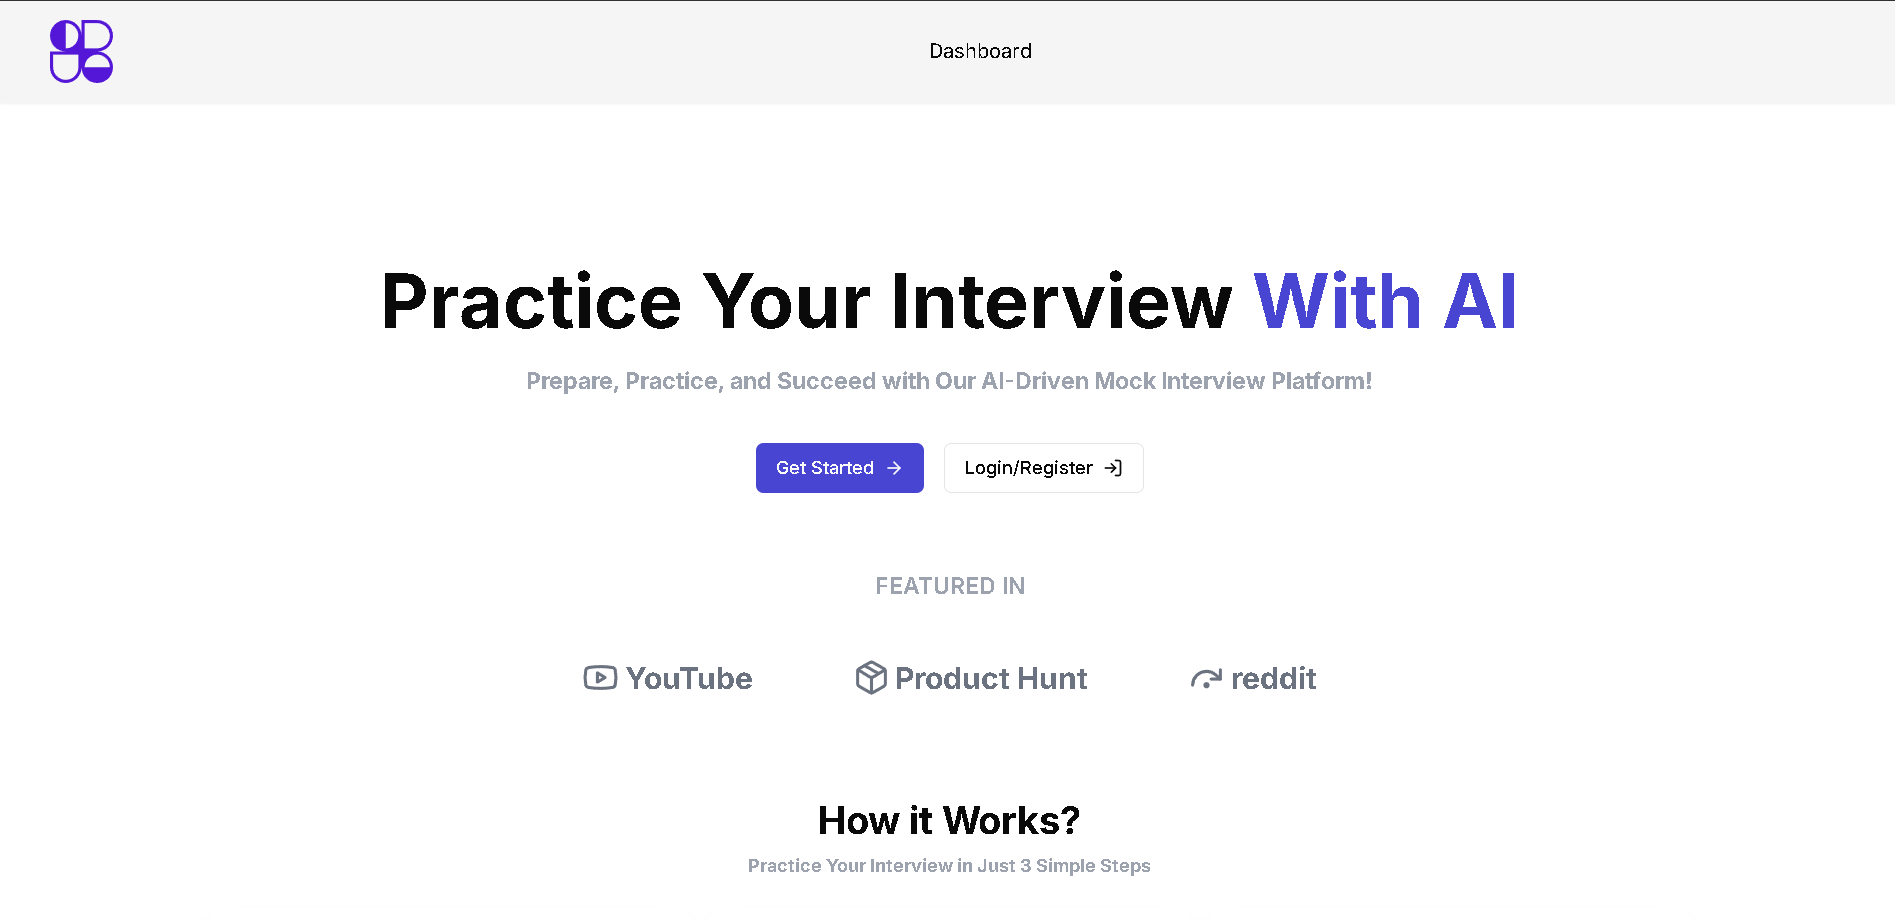
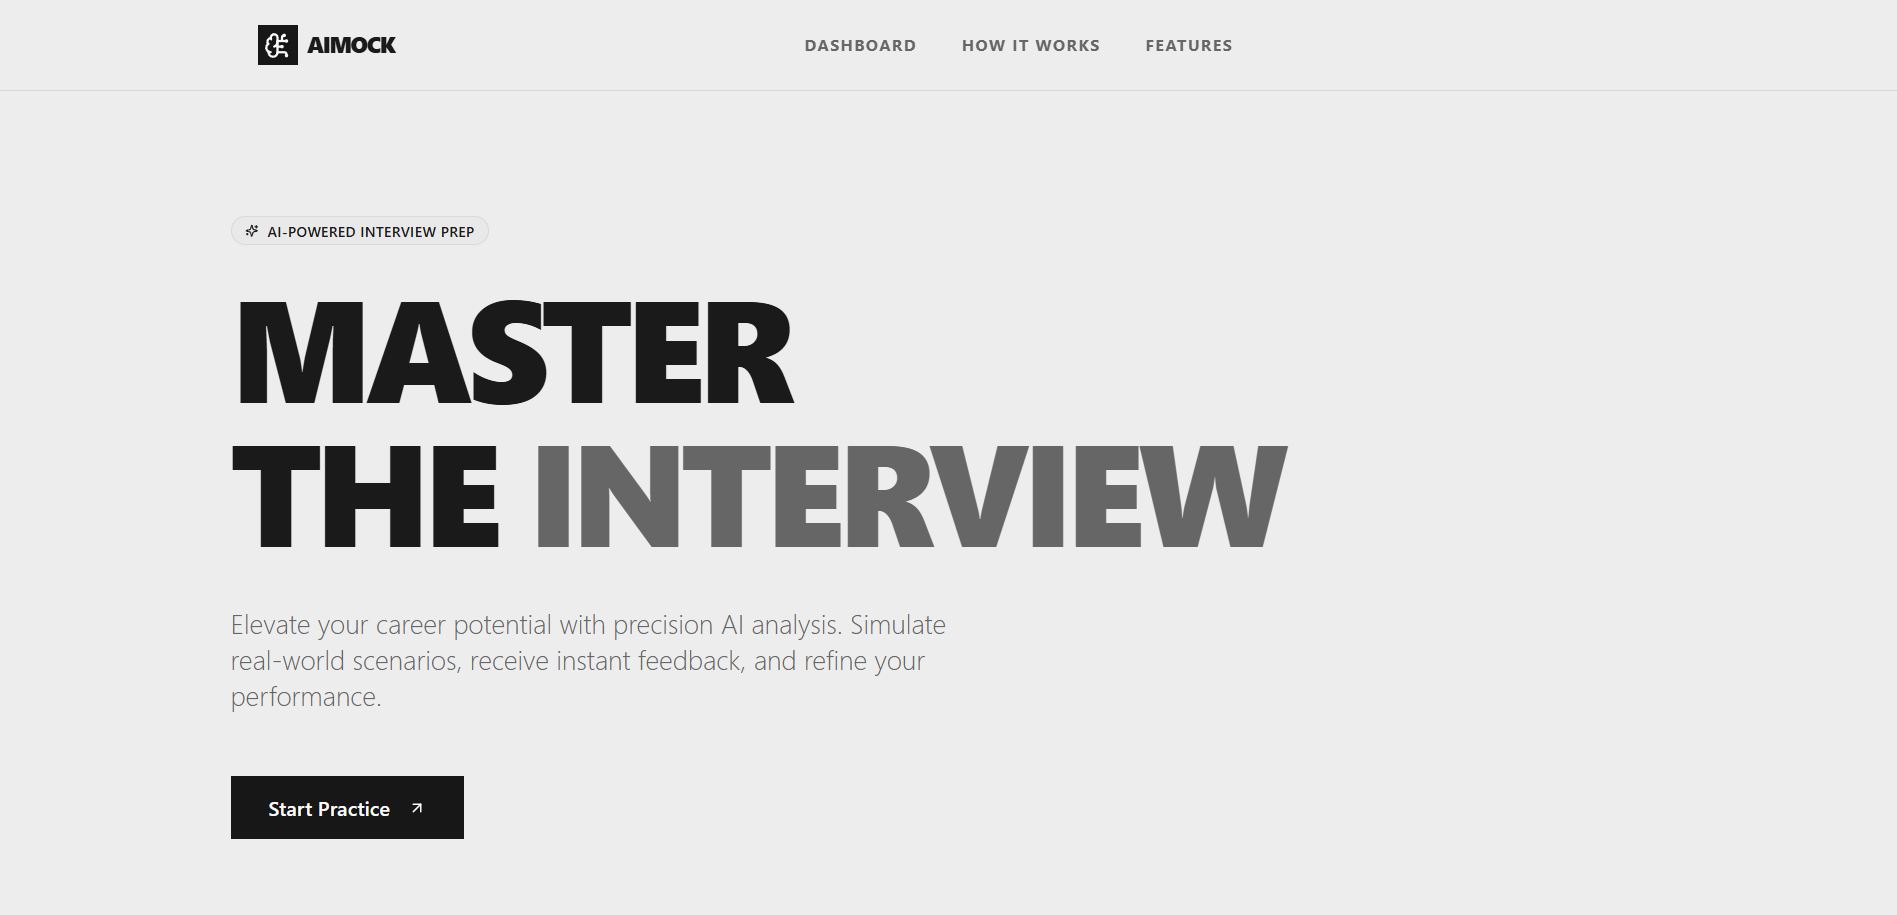
SKILLS SECTION UI IMPROVED\ PROJECT SECTION TWO LINKS SUPPORT ADDED

diff --git a/src/sections/Skills.jsx b/src/sections/Skills.jsx
@@ -5,11 +5,13 @@ import { skillCategories } from "../constants";
 import { useGSAP } from "@gsap/react";
 import gsap from "gsap";
 import { ScrollTrigger } from "gsap/all";
+import { useMediaQuery } from "react-responsive";
 
 gsap.registerPlugin(ScrollTrigger);
 
 const Skills = () => {
   const cardRefs = useRef([]);
+  const isDesktop = useMediaQuery({ minWidth: "48rem" }); // 768px
   const text = `Pragmatic stack spanning languages, frameworks,
     tooling, and data layers ready for prototypes
     or hardened production systems.`;
@@ -19,20 +21,19 @@ const Skills = () => {
       if (!card) return;
 
       gsap.from(card, {
-        y: 120,
-        opacity: 0,
-        duration: 1,
-        ease: "power3.out",
+        y: 200,
         scrollTrigger: {
           trigger: card,
-          start: "top 85%",
+          start: "top 80%",
         },
+        duration: 1,
+        ease: "circ.out",
       });
     });
   }, []);
 
   return (
-    <section id="skills" className="min-h-screen bg-black border-t-2 border-white/20">
+    <section id="skills" className="min-h-screen bg-black rounded-t-4xl">
       <AnimatedHeaderSection
         subTitle={"Stacks I Ship With"}
         title={"Skills"}
@@ -40,46 +41,47 @@ const Skills = () => {
         textColor={"text-white"}
         withScrollTrigger={true}
       />
-      <div className="px-10 pb-20">
-        <div className="grid gap-8 md:grid-cols-2">
-          {skillCategories.map((category, index) => (
-            <article
-              key={category.title}
-              ref={(el) => {
-                cardRefs.current[index] = el;
-              }}
-              className="relative flex flex-col gap-6 p-8 overflow-hidden border border-white/10 rounded-3xl bg-white/5 backdrop-blur-sm"
-            >
-              <header className="space-y-2">
-                <p className="text-xs tracking-[0.4rem] uppercase text-white/40">
-                  {category.subtitle}
-                </p>
-                <h3 className="text-3xl font-light md:text-4xl text-white">
-                  {category.title}
-                </h3>
-              </header>
-              <div className="grid gap-3 sm:grid-cols-2">
-                {category.skills.map((skill) => (
-                  <div
-                    key={skill.name}
-                    className="flex items-center gap-4 p-4 transition-colors duration-300 rounded-2xl bg-white/5 hover:bg-white/10"
-                  >
-                    <div className="flex items-center justify-center w-12 h-12 rounded-xl bg-black/40 border border-white/10">
-                      <Icon
-                        icon={skill.icon}
-                        className={`w-7 h-7 ${skill.iconClassName ?? "text-gold"}`}
-                      />
-                    </div>
-                    <span className="text-lg font-light tracking-wide text-white">
-                      {skill.name}
-                    </span>
-                  </div>
-                ))}
+      
+      {skillCategories.map((category, index) => (
+        <div
+          ref={(el) => (cardRefs.current[index] = el)}
+          key={index}
+          className="sticky px-10 pt-6 pb-12 text-white bg-black border-t-2 border-white/30"
+          style={
+            isDesktop
+              ? {
+                  top: `calc(10vh + ${index * 5}em)`,
+                  marginBottom: `${(skillCategories.length - index - 1) * 5}rem`,
+                }
+              : { top: 0 }
+          }
+        >
+           <div className="flex flex-col gap-8 md:flex-row md:justify-between md:items-start">
+              <div className="md:w-1/3">
+                 <h2 className="text-4xl lg:text-5xl mb-4">{category.title}</h2>
+                 <p className="text-xl leading-relaxed tracking-widest lg:text-2xl text-white/60 text-pretty">
+                    {category.subtitle}
+                 </p>
               </div>
-            </article>
-          ))}
+              
+              <div className="md:w-2/3 grid grid-cols-2 sm:grid-cols-3 gap-4">
+                 {category.skills.map((skill) => (
+                    <div key={skill.name} className="flex items-center gap-3 p-3 rounded-xl bg-white/5 border border-white/10 hover:bg-white/10 transition-colors duration-300">
+                       <div className="flex items-center justify-center w-10 h-10 rounded-lg bg-black/40 border border-white/10 shrink-0">
+                          <Icon
+                            icon={skill.icon}
+                            className={`w-6 h-6 ${skill.iconClassName ?? "text-gold"}`}
+                          />
+                       </div>
+                       <span className="text-base font-light tracking-wide text-white/90">
+                          {skill.name}
+                       </span>
+                    </div>
+                 ))}
+              </div>
+           </div>
         </div>
-      </div>
+      ))}
     </section>
   );
 };

diff --git a/src/constants/index.js b/src/constants/index.js
@@ -113,7 +113,8 @@ export const projects = [
     name: "Skill Arena",
     description:
       "An online Esport Tournament Management System with team registrations, match scheduling, and real-time score updates.",
-    href: "https://github.com/rohit-jsfreaky/skill-arena-frontend",
+    liveLink: "https://eskillarena.in/",
+    githubLink: null,
     image: "/assets/projects/skill-arena.png",
     bgImage: "/assets/backgrounds/blanket.jpg",
     frameworks: [
@@ -131,7 +132,8 @@ export const projects = [
     name: "Csv Editor",
     description:
       "This project is a robust CSV management platform that combines dynamic table editing, cloud storage with AWS S3, and secure authentication to deliver a seamless and user-friendly experience for managing and editing CSV files.",
-    href: "https://github.com/rohit-jsfreaky/Csv-Editor",
+    liveLink: "https://csv-editor-steel.vercel.app/",
+    githubLink: "https://github.com/rohit-jsfreaky/Csv-Editor",
     image: "/assets/projects/cvs-editor.png",
     bgImage: "/assets/backgrounds/curtains.jpg",
     frameworks: [
@@ -148,7 +150,8 @@ export const projects = [
     name: "Ai Mock Interview",
     description:
       "Built an AI-powered mock interview platform with Next.js, Drizzle ORM, and NeonDB, enhancing user preparation by 80%. Integrated Gemini API for tailored questions and Clerk for secure authentication, ensuring efficiency and scalability.",
-    href: "https://github.com/rohit-jsfreaky/Ai-mock-interview",
+    liveLink: "https://ai-mock-interview-iota-blush.vercel.app/",
+    githubLink: "https://github.com/rohit-jsfreaky/Ai-mock-interview",
     image: "/assets/projects/ai-interview.png",
     bgImage: "/assets/backgrounds/map.jpg",
     frameworks: [
@@ -163,7 +166,8 @@ export const projects = [
     name: "Ai Resume Builder",
     description:
       "I've developed an AI-powered resume builder using React, Node.js, and MongoDB, featuring AI-driven suggestions via Gemini API and secure authentication with Clerk",
-    href: "https://github.com/rohit-jsfreaky/resume-builder-ai",
+    liveLink: null,
+    githubLink: "https://github.com/rohit-jsfreaky/resume-builder-ai",
     image: "/assets/projects/resume.png",
     bgImage: "/assets/backgrounds/poster.jpg",
     frameworks: [
@@ -179,7 +183,8 @@ export const projects = [
     name: "Job Portal",
     description:
       "Developed a job portal using React, Node.js, and MongoDB. Features include secure authentication, job postings, and application management, bridging the gap between students andemployers.",
-    href: "https://github.com/rohit-jsfreaky/job-portal",
+    liveLink: null,
+    githubLink: "https://github.com/rohit-jsfreaky/job-portal",
     image: "/assets/projects/job-portal.jpg",
     bgImage: "/assets/backgrounds/table.jpg",
     frameworks: [

diff --git a/src/sections/Works.jsx b/src/sections/Works.jsx
@@ -119,7 +119,13 @@ const Works = () => {
             className="relative flex flex-col gap-1 py-5 cursor-pointer group md:gap-0"
             onMouseEnter={() => handleMouseEnter(index)}
             onMouseLeave={() => handleMouseLeave(index)}
-            onClick={() => window.open(project.href, "_blank")}
+            onClick={() => {
+              if (project.liveLink) {
+                window.open(project.liveLink, "_blank");
+              } else if (project.githubLink) {
+                window.open(project.githubLink, "_blank");
+              }
+            }}
           >
             {/* overlay */}
             <div
@@ -130,11 +136,37 @@ const Works = () => {
             />
 
             {/* title */}
-            <div className="flex justify-between px-10 text-black transition-all duration-500 md:group-hover:px-12 md:group-hover:text-white">
+            <div className="flex justify-between items-center px-10 text-black transition-all duration-500 md:group-hover:px-12 md:group-hover:text-white">
               <h2 className="lg:text-[32px] text-[26px] leading-none">
                 {project.name}
               </h2>
-              <Icon icon="lucide:arrow-up-right" className="md:size-6 size-5" />
+              <div className="flex gap-4 z-10">
+                {project.githubLink && (
+                  <a
+                    href={project.githubLink}
+                    target="_blank"
+                    rel="noreferrer"
+                    className="hover:scale-110 transition-transform"
+                    onClick={(e) => e.stopPropagation()}
+                  >
+                    <Icon icon="mdi:github" className="md:size-8 size-6" />
+                  </a>
+                )}
+                {project.liveLink && (
+                  <a
+                    href={project.liveLink}
+                    target="_blank"
+                    rel="noreferrer"
+                    className="hover:scale-110 transition-transform"
+                    onClick={(e) => e.stopPropagation()}
+                  >
+                    <Icon
+                      icon="lucide:arrow-up-right"
+                      className="md:size-8 size-6"
+                    />
+                  </a>
+                )}
+              </div>
             </div>
             {/* divider */}
             <div className="w-full h-0.5 bg-black/80" />
